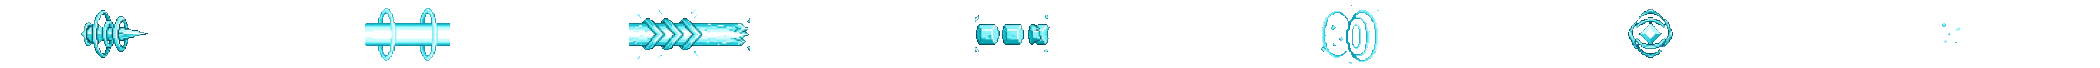
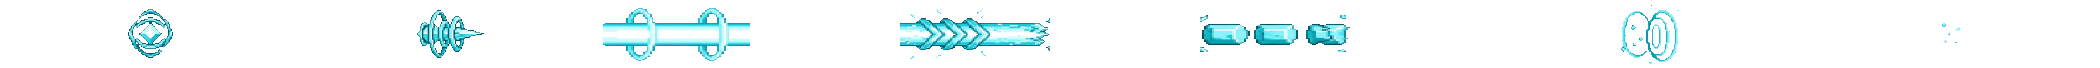
Beams reach from the user to the target with a charge first, Flamethrower aims at the target, every hit of a multi-hit move animates, hits wait for the animation, battle rain shows on clear days
Claude-Session: https://claude.ai/code/session_01BNgsMY3xJ5fCpYNaX7SYwq

diff --git a/Terramon/Core/Battling/MoveVisuals.cs b/Terramon/Core/Battling/MoveVisuals.cs
@@ -15,6 +15,9 @@ namespace Terramon.Core.Battling;
 ///     from the user to the target; 0 = it all plays on the target), <c>Ticks N</c> (per frame) and <c>Scale X</c>.
 ///     Optional: <c>Face 1</c> mirrors the whole animation when the target is on the left (fists, beams, wind), and
 ///     <c>At user|middle|target</c> says where the frames after the flight play (status moves play on the user).
+///     <c>Charge N</c>: the first N frames play on the user before anything flies (Solar Beam gathering light).
+///     <c>Beam A B</c>: frames A to B are beams whose tip is at the frame's center; they are stretched and turned so
+///     the beam goes all the way from the user to the target.
 /// </summary>
 public sealed class MoveVisuals : ModSystem
 {
@@ -37,11 +40,29 @@ public sealed class MoveVisuals : ModSystem
     private sealed class MoveSprite
     {
         public Asset<Texture2D> Texture;
-        public int Frames = 1, Travel, Ticks = 5;
+        public int Frames = 1, Travel, Ticks = 5, Charge;
+        public int BeamFrom = -1, BeamTo = -1;
         public float Scale = 1f;
         public bool Face;
         public string At;
+        public int ChargeTime => Charge * Ticks;
         public int TravelTime => Travel > 0 ? TravelTicks : 0;
+
+        /// <summary>
+        ///     When the move reaches the target: after the charge and the flight.
+        /// </summary>
+        public int HitTime => ChargeTime + TravelTime;
+
+        public int Duration => HitTime + (Frames - Charge - Travel) * Ticks;
+
+        public int FrameAt(int time)
+        {
+            if (time < ChargeTime)
+                return time / Ticks;
+            if (time < HitTime)
+                return Charge + (time - ChargeTime) / Ticks % Travel;
+            return Math.Min(Frames - 1, Charge + Travel + (time - HitTime) / Ticks);
+        }
     }
 
     private static readonly List<Effect> Effects = [];
@@ -84,6 +105,12 @@ public sealed class MoveVisuals : ModSystem
                         case "Frames" when int.TryParse(parts[1], out var v): sprite.Frames = Math.Max(1, v); break;
                         case "Travel" when int.TryParse(parts[1], out var v): sprite.Travel = Math.Max(0, v); break;
                         case "Ticks" when int.TryParse(parts[1], out var v): sprite.Ticks = Math.Max(1, v); break;
+                        case "Charge" when int.TryParse(parts[1], out var v): sprite.Charge = Math.Max(0, v); break;
+                        case "Beam" when parts.Length > 2 && int.TryParse(parts[1], out var from) &&
+                                         int.TryParse(parts[2], out var to):
+                            sprite.BeamFrom = from;
+                            sprite.BeamTo = to;
+                            break;
                         case "Face" when int.TryParse(parts[1], out var v): sprite.Face = v != 0; break;
                         case "At": sprite.At = parts[1].ToLowerInvariant(); break;
                         case "Scale" when float.TryParse(parts[1], System.Globalization.NumberStyles.Float,
@@ -92,12 +119,18 @@ public sealed class MoveVisuals : ModSystem
                 }
             }
 
-            sprite.Travel = Math.Min(sprite.Travel, sprite.Frames - 1);
+            sprite.Charge = Math.Min(sprite.Charge, sprite.Frames - 1);
+            sprite.Travel = Math.Min(sprite.Travel, sprite.Frames - 1 - sprite.Charge);
         }
 
         Sprites[moveId] = sprite;
         return sprite;
     }
+
+    /// <summary>
+    ///     How long a move's own drawn animation takes, or 0 if it has none: its hit is shown once it's over.
+    /// </summary>
+    public static int AnimationTicks(ushort moveId) => Main.dedServ ? 0 : SpriteFor(moveId)?.Duration ?? 0;
 
     /// <summary>
     ///     Starts the animation of a move. <paramref name="still" /> moves (e.g. the charging turn of Solar Beam) have
@@ -130,7 +163,7 @@ public sealed class MoveVisuals : ModSystem
             _ => 8
         };
         if (effect.Sprite is { } sprite)
-            effect.Duration = sprite.TravelTime + (sprite.Frames - sprite.Travel) * sprite.Ticks;
+            effect.Duration = sprite.Duration;
 
         if (Position(effect.User) is not { } from)
             return;
@@ -169,7 +202,7 @@ public sealed class MoveVisuals : ModSystem
         if (effect.Sprite is { } sprite)
         {
             // Its own animation: flying frames, then the rest on the target (drawn in DrawSpritesOverDust)
-            if (effect.Time == sprite.TravelTime)
+            if (effect.Time == sprite.HitTime)
             {
                 if (effect.Miss)
                 {
@@ -250,14 +283,16 @@ public sealed class MoveVisuals : ModSystem
 
     private static Vector2 SpritePosition(Effect effect, MoveSprite sprite)
     {
-        if (effect.Time >= sprite.TravelTime)
+        if (effect.Time < sprite.ChargeTime)
+            return effect.From;
+        if (effect.Time >= sprite.HitTime)
             return (sprite.At ?? (effect.Category == MoveCategory.Status ? "user" : "target")) switch
             {
                 "user" => effect.From,
                 "middle" => Vector2.Lerp(effect.From, effect.To, 0.5f),
                 _ => effect.To
             };
-        var progress = effect.Time / (float)sprite.TravelTime;
+        var progress = (effect.Time - sprite.ChargeTime) / (float)sprite.TravelTime;
         return Vector2.Lerp(effect.From, effect.To, progress) + new Vector2(0f, -MathF.Sin(progress * MathF.PI) * 18f);
     }
 
@@ -279,17 +314,26 @@ public sealed class MoveVisuals : ModSystem
                 continue;
             var texture = sprite.Texture.Value;
             var width = texture.Width / sprite.Frames;
-            var travelling = effect.Time < sprite.TravelTime;
-            var frame = travelling
-                ? effect.Time / sprite.Ticks % sprite.Travel
-                : Math.Min(sprite.Frames - 1, sprite.Travel + (effect.Time - sprite.TravelTime) / sprite.Ticks);
+            var travelling = effect.Time >= sprite.ChargeTime && effect.Time < sprite.HitTime;
+            var frame = sprite.FrameAt(effect.Time);
+            var source = new Rectangle(frame * width, 0, width, texture.Height);
+            var origin = new Vector2(width, texture.Height) * 0.5f;
+            if (!travelling && frame >= sprite.BeamFrom && frame <= sprite.BeamTo)
+            {
+                // A beam: its tip on the target, stretched back to the user
+                var line = effect.To - effect.From;
+                var length = Math.Max(16f, line.Length());
+                spriteBatch.Draw(texture, (effect.To - Main.screenPosition).Floor(), source, Color.White,
+                    line.ToRotation(), origin, new Vector2(length / (width * 0.5f), sprite.Scale), SpriteEffects.None, 0f);
+                continue;
+            }
+
             // The sheet is drawn going right; flying left mirrors the flying frames (all of them for Face moves)
             var flip = (travelling || sprite.Face) && effect.To.X < effect.From.X
                 ? SpriteEffects.FlipHorizontally
                 : SpriteEffects.None;
-            spriteBatch.Draw(texture, (SpritePosition(effect, sprite) - Main.screenPosition).Floor(),
-                new Rectangle(frame * width, 0, width, texture.Height), Color.White, 0f,
-                new Vector2(width, texture.Height) * 0.5f, sprite.Scale, flip, 0f);
+            spriteBatch.Draw(texture, (SpritePosition(effect, sprite) - Main.screenPosition).Floor(), source,
+                Color.White, 0f, origin, sprite.Scale, flip, 0f);
         }
 
         spriteBatch.End();

diff --git a/tools/vfx/beams.py b/tools/vfx/beams.py
@@ -1,6 +1,6 @@
-"""Solar Beam and Ice Beam: Isa's sheets have pieces of different sizes instead of a grid, so each piece is cut by
-hand and laid out in frames where a beam ends at the frame's center (drawn on the target, it reaches back to the
-user) and a burst sits on the center."""
+"""Solar Beam, Ice Beam and Flamethrower: Isa's sheets have pieces of different sizes instead of a grid, so each piece
+is cut by hand. A "beam" piece is laid out with its tip on the frame's center and REACH pixels long, and the game
+stretches it from the user to the target (Beam A B in the .txt); a "burst" piece sits on the center."""
 import sys
 import numpy as np
 from PIL import Image
@@ -8,46 +8,65 @@ sys.path.insert(0, sys.argv[3])
 from convert import load, shrink
 
 SRC, OUT = sys.argv[1], sys.argv[2]
-K = 4          # downscale
-REACH = 150    # how far back a beam reaches, in output pixels
+REACH = 150
 
-# (box in the sheet, kind): "beam" ends at the center, "burst" is centered
-SOLAR = ("solar_beam_spritesheet_1792854445400.jpg", "SolarBeam", [
-    ((690, 5, 1185, 195), "beam"),     # arrow with rings
-    ((0, 205, 675, 370), "beam"),      # beam with its head
-    ((685, 205, 1376, 370), "beam"),   # full beam
-    ((0, 385, 925, 575), "beam"),      # pulsing beam
-    ((0, 580, 350, 762), "beam"),      # beam breaking up
-    ((990, 385, 1100, 575), "burst"),  # ring
-    ((350, 580, 615, 762), "burst"),   # ring and crescents
-    ((1140, 385, 1280, 575), "burst"), # crescents fading
-], dict(Travel=0, Ticks=5, Face=1))
-ICE = ("ice_beam_vfx_spritesheet_1792855768122.jpg", "IceBeam", [
-    ((385, 80, 670, 300), "beam"),     # spiral point
-    ((1025, 70, 1376, 310), "beam"),   # beam with rings
-    ((0, 450, 485, 680), "beam"),      # beam with chevrons, breaking
-    ((485, 490, 785, 640), "beam"),    # ice blocks
-    ((785, 430, 1030, 700), "burst"),  # rings
-    ((70, 80, 275, 300), "burst"),     # crystal
-    ((1160, 510, 1260, 620), "burst"), # sparkles
-], dict(Travel=0, Ticks=5, Face=1))
+SHEETS = [
+    ("solar_beam_spritesheet_1792854445400.jpg", "SolarBeam", 4, [
+        ((110, 5, 240, 195), "burst"),     # light gathering
+        ((415, 5, 610, 195), "burst"),     # flash
+        ((690, 5, 1185, 195), "burst"),    # arrow with rings, flying
+        ((0, 205, 675, 370), "beam"),      # beam with its head
+        ((685, 205, 1376, 370), "beam"),   # full beam
+        ((0, 385, 925, 575), "beam"),      # pulsing beam
+        ((0, 580, 350, 762), "beam"),      # beam breaking up
+        ((990, 385, 1100, 575), "burst"),  # ring
+        ((350, 580, 615, 762), "burst"),   # ring and crescents
+        ((1140, 385, 1280, 575), "burst"), # crescents fading
+    ], dict(Charge=2, Travel=1, Beam="3 6", Ticks=5, Face=1)),
+    ("ice_beam_vfx_spritesheet_1792855768122.jpg", "IceBeam", 4, [
+        ((70, 80, 275, 300), "burst"),     # crystal forming
+        ((385, 80, 670, 300), "burst"),    # spiral point, flying
+        ((1025, 70, 1376, 310), "beam"),   # beam with rings
+        ((0, 450, 485, 680), "beam"),      # beam with chevrons, breaking
+        ((485, 490, 785, 640), "beam"),    # ice blocks
+        ((785, 430, 1030, 700), "burst"),  # rings
+        ((1160, 510, 1260, 620), "burst"), # sparkles
+    ], dict(Charge=1, Travel=1, Beam="2 4", Ticks=5, Face=1)),
+    ("flamethrower_vfx_spritesheet_final_1792855053226.jpg", "Flamethrower", 3, [
+        ((40, 70, 280, 280), "beam"),
+        ((350, 70, 640, 280), "beam"),
+        ((690, 70, 1010, 280), "beam"),
+        ((1030, 70, 1345, 280), "beam"),
+        ((40, 300, 630, 560), "beam"),     # the big stream
+        ((690, 340, 1030, 500), "beam"),   # stream ending in a fireball
+        ((1040, 360, 1185, 490), "burst"), # fireballs
+        ((1190, 410, 1340, 540), "burst"),
+        ((280, 580, 440, 720), "burst"),   # smoke and embers
+        ((450, 570, 620, 750), "burst"),
+        ((690, 570, 860, 750), "burst"),
+        ((910, 570, 1110, 750), "burst"),
+        ((1190, 600, 1345, 720), "burst"),
+    ], dict(Travel=0, Beam="0 5", Ticks=4, Face=1)),
+]
 
-for file, move, pieces, settings in (SOLAR, ICE):
+for file, move, k, pieces, settings in SHEETS:
     a = load(f"{SRC}/{file}")
     frames = []
     for (x0, y0, x1, y1), kind in pieces:
-        p = shrink(a[y0:y1, x0:x1], K)
-        if kind == "beam" and p.shape[1] > REACH:
-            p = p[:, -REACH:]  # keep the end that hits
+        p = shrink(a[y0:y1, x0:x1], k).clip(0, 255).astype(np.uint8)
+        if kind == "beam":
+            # Every beam the same length, so the game can stretch it to the distance between the Pokémon
+            p = np.array(Image.fromarray(p, "RGBA").resize((REACH, p.shape[0]), Image.NEAREST))
         frames.append((p, kind))
     h = max(p.shape[0] for p, _ in frames)
     h += h % 2
-    w = 2 * REACH
+    w = max([2 * REACH] + [p.shape[1] + p.shape[1] % 2 for p, _ in frames])
     strip = np.zeros((h, w * len(frames), 4), np.uint8)
     for i, (p, kind) in enumerate(frames):
         y = (h - p.shape[0]) // 2
-        x = REACH - p.shape[1] if kind == "beam" else REACH - p.shape[1] // 2
-        strip[y:y + p.shape[0], i * w + x:i * w + x + p.shape[1]] = p.clip(0, 255).astype(np.uint8)
+        x = w // 2 - p.shape[1] if kind == "beam" else w // 2 - p.shape[1] // 2
+        strip[y:y + p.shape[0], i * w + x:i * w + x + p.shape[1]] = p
     Image.fromarray(strip, "RGBA").save(f"{OUT}/{move}.png", optimize=True)
-    open(f"{OUT}/{move}.txt", "w").write("\n".join([f"Frames {len(frames)}"] + [f"{k} {v}" for k, v in settings.items()] + ["Scale 1"]) + "\n")
+    lines = [f"Frames {len(frames)}"] + [f"{key} {val}" for key, val in settings.items()] + ["Scale 1"]
+    open(f"{OUT}/{move}.txt", "w").write("\n".join(lines) + "\n")
     print(move, len(frames), (w, h))

diff --git a/Terramon/Core/Battling/BattlePlayback.cs b/Terramon/Core/Battling/BattlePlayback.cs
@@ -88,6 +88,13 @@ public sealed class BattlePlayback : ModSystem
         public bool Refinable;
         public bool Refined;
 
+        /// <summary>
+        ///     Another hit of a multi-hit move (Double Kick, Icicle Spear...): the move's animation plays again before
+        ///     this HP goes down. Set when the hit count comes in (see <see cref="QueueLine" />).
+        /// </summary>
+        public Step Rehit;
+        public bool Replayed;
+
         // Status
         public NonVolatileStatus Status;
 
@@ -502,6 +509,8 @@ public sealed class BattlePlayback : ModSystem
         // a short moment for the bar to move
         // A status move's full description is long: it's kept in the history, and a short line says what it did
         var historyOnly = name is "Damage" or "Healed" or "MoveEffect";
+        if (name == "HitCount")
+            MarkRehits(field);
         Add(field, new Step
         {
             Kind = Kind.Line,
@@ -514,6 +523,49 @@ public sealed class BattlePlayback : ModSystem
             // "X used Y!" stays while its move plays out: its hit and HP bar wait for it to be written out
             Hold = historyOnly ? 0 : intro ? TypingTicks(text) + 30 : HoldFor(text)
         });
+    }
+
+    /// <summary>
+    ///     A multi-hit move ended: its hits on the target after the first one each get the move's animation again.
+    /// </summary>
+    private static void MarkRehits(BattleField field)
+    {
+        if (!Enabled || field == null)
+            return;
+        lock (Sync)
+        {
+            var timeline = Get(field, false);
+            if (timeline == null)
+                return;
+            var hits = new List<Step>();
+            Step move = null;
+            for (var node = timeline.Steps.Last; node != null; node = node.Previous)
+            {
+                if (node.Value.Kind == Kind.Move)
+                {
+                    move = node.Value;
+                    break;
+                }
+
+                if (node.Value.Kind == Kind.HP)
+                    hits.Add(node.Value);
+            }
+
+            // The move may already be on screen; then the rest of its hits just go down as before
+            if (move == null || move.Miss)
+                return;
+            var target = move.Side?.Opposite;
+            hits.Reverse();
+            var first = true;
+            foreach (var hit in hits)
+            {
+                if (hit.Side != target)
+                    continue;
+                if (!first)
+                    hit.Rehit = move;
+                first = false;
+            }
+        }
     }
 
     /// <summary>
@@ -840,6 +892,14 @@ public sealed class BattlePlayback : ModSystem
                         timeline.PendingHit = 0;
                         return;
                     }
+                    else if (step.Rehit is { } move && !step.Replayed)
+                    {
+                        // The next hit of a multi-hit move: its animation again, then this HP goes down
+                        step.Replayed = true;
+                        MoveVisuals.Play(move.Side, move.MoveId, false, false);
+                        timeline.Wait = HitDelay(move) - 1;
+                        return;
+                    }
                 }
 
                 timeline.Steps.RemoveFirst();
@@ -870,12 +930,14 @@ public sealed class BattlePlayback : ModSystem
     {
         if (move.Still)
             return StillHitDelay;
-        return Terramon.DatabaseV2.GetMove(move.MoveId)?.Category switch
+        var delay = Terramon.DatabaseV2.GetMove(move.MoveId)?.Category switch
         {
             MoveCategory.Physical => PhysicalHitDelay,
             MoveCategory.Special => SpecialHitDelay,
             _ => StatusHitDelay
         };
+        // A move with its own drawn animation hits once the animation is over
+        return Math.Max(delay, MoveVisuals.AnimationTicks(move.MoveId));
     }
 
     private static void Finish(Timeline timeline)

diff --git a/Terramon/Core/Battling/ArenaEffects.cs b/Terramon/Core/Battling/ArenaEffects.cs
@@ -151,10 +151,25 @@ public sealed class ArenaEffects : ModSystem
         switch (weather)
         {
             case BattleWeather.RainDance or BattleWeather.PrimordialSea or BattleWeather.StormSurge:
+            {
+                // Terraria only lets as many raindrops exist as the clouds allow (none on a clear day), so the sky
+                // counts as cloudy while the battle's drops are made. Nothing in the world's weather changes
+                var clouds = Main.cloudAlpha;
+                Main.cloudAlpha = 1f;
                 for (var i = 0; i < (weather == BattleWeather.RainDance ? 5 : 9); i++)
                     Rain.NewRain(new Vector2(RandomX(arena), top + Main.rand.NextFloat(0f, 60f)),
                         new Vector2(Main.rand.NextFloat(-0.6f, 0.6f), Main.rand.NextFloat(11f, 14f)));
+                Main.cloudAlpha = clouds;
+                // Drops splashing around the Pokémon too, in case the rain is hidden
+                for (var i = 0; i < 2; i++)
+                {
+                    var d = Dust.NewDustPerfect(new Vector2(RandomX(arena), Main.rand.NextFloat(top, arena.Bottom - 20f)),
+                        DustID.Water, new Vector2(Main.rand.NextFloat(-0.3f, 0.3f), Main.rand.NextFloat(6f, 8f)), 0,
+                        default, 1.1f);
+                    d.noGravity = true;
+                }
                 break;
+            }
 
             case BattleWeather.SunnyDay or BattleWeather.DesolateLand:
                 for (var x = arena.Left; x < arena.Right; x += 48f)
